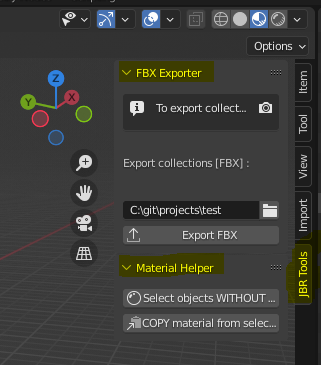
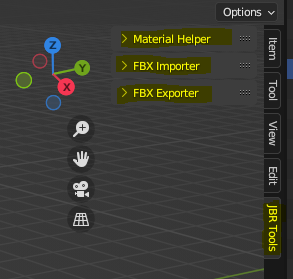
update doccumentation

diff --git a/README.md b/README.md
@@ -48,6 +48,28 @@ Press [N] in 3D Viewport to toggle the right side bar
     - ![Target Dir](https://github.com/magic-j/blender_plugin_for_asset_workflow/blob/main/images/blender_FbxExporter_targetDir.PNG)
 4. Press [**Export**]
 
+### FBX Importer
+Two different Buttons for importing FBX files
+
+![Warnings](https://github.com/magic-j/blender_plugin_for_asset_workflow/blob/main/images/blender_FbxImporter.PNG)
+
+For each imported FBX a new collection will be created with the filename of the FBX.
+
+Additionaly there is an optimization process running on the imported nodes:
+1. Delete everything that is not a MESH or a EMPTY
+2. Apply scale on ever node
+3. Remove parenting of nodes (flat)
+4. Set consistent EMPTY display mode & scale
+5. After the import is finished "REMOVE material duplicates" is called
+
+#### batch IMPORT FBX
+    Select one or more FBX files to import
+
+
+#### batch IMPORT FOLDER
+    Select folder to recursivly import all included FBX files
+    The collection name will also contain the relative of the FBX
+
 
 ### Material Helper
 Buttons to speed up the material workflow
